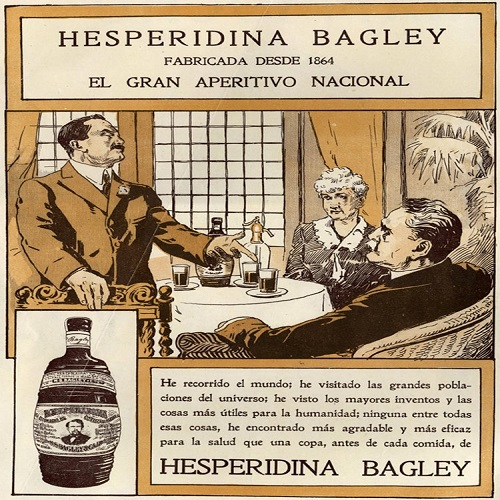
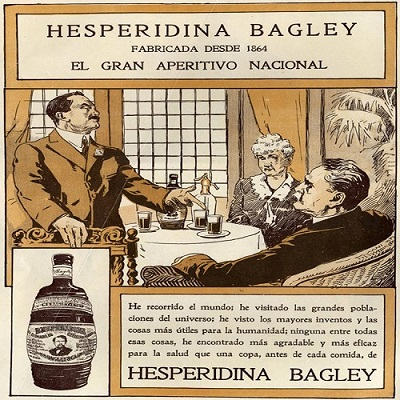
tam img widht and height

diff --git a/src/pages/Home/PaginadoHistories.tsx b/src/pages/Home/PaginadoHistories.tsx
@@ -154,30 +154,30 @@ const PaginadoHistories = () => {
             contenido3: "En las entrañas de la Compañía Ferroviaria de Pensilvania, su ascenso fue meteórico, una historia clásica del sueño americano. De muchacho pobre a hombre rico, su vida resonaba con la melodía del trabajo duro y la inteligencia incansable.",
             contenido4: "La educación y pasión de Carnegie por la lectura tomaron un giro significativo cuando el coronel James Anderson abrió las puertas de su biblioteca privada a los jóvenes trabajadores. Carnegie se alimentó de conocimiento y experiencias, cultivándose no solo en el ámbito económico, sino también en el intelectual y cultural. Pero, como en toda historia atrapante, había otro lado de la moneda.",
             titulo3: "Carrera y evolución en los negocios",
-            contenido5: "1860-1865: Guerra de Secesion. Conforme ascendía en la jerarquía empresarial, tejía una red de inversiones que le permitirían forjar su propio camino. La Guerra de Secesión fue el telón de fondo para sus primeras incursiones en el negocio, formando asociaciones y haciendo movimientos estratégicos que harían que su fortuna creciera como el fuego devora la madera seca.",
+            contenido5: "1860-1865-Guerra de Secesion: Conforme ascendía en la jerarquía empresarial, tejía una red de inversiones que le permitirían forjar su propio camino. La Guerra de Secesión fue el telón de fondo para sus primeras incursiones en el negocio, formando asociaciones y haciendo movimientos estratégicos que harían que su fortuna creciera como el fuego devora la madera seca.",
             contenido6: "Antes de que estallara la Guerra Civil Estadounidense, Carnegie había formado una sociedad con el señor Woodruff, el inventor de un coche cama para los viajes de primera clase. Los coches cama facilitaban los viajes de negocios para distancias de aproximadamente 500 millas (805 km). La inversión demostró ser un éxito y una fuente de beneficios para Woodruff y Carnegie. El joven llegó a ser el superintendente de la Pennsylvania Railroad's Western Division, e introdujo varias mejoras en el servicio.",
-            contenido7: "En 1864, Carnegie invirtió 40 000 $ en la granja Storey de Oil Creek en el Condado de Venango (Pensilvania). En un año, la granja produjo alrededor de 1 000 000 $ de dividendos en efectivo, y el petróleo de los pozos se vendió provechosamente. La demanda de productos derivados del hierro, tales como corazas para lanchas cañoneras, cañones y armazones, así como un centenar de otros productos industriales, hicieron de Pittsburgh un centro de producción durante el tiempo de la guerra.",
-            contenido8: "Carnegie trabajó con otros para montar un laminador de acero, aumentar la producción de acero y hacerse con el control de la industria, lo que supondría la fuente de su fortuna. Luego hizo varias inversiones en la industria del hierro antes de la guerra.",
-            contenido9: "Tras la guerra, abandonó los ferrocarriles para dedicar todas sus energías al comercio con las fundiciones de hierro. Trabajó para mejorar varias fundiciones, finalmente formando parte de The Keystone Bridge Works y la Union Ironworks. Siendo superintendente de la Keystone Bridge Company's, se dio cuenta de la debilidad de las estructuras de madera tradicionales. Fueron reemplazadas en gran medida por puentes de hierro hecho en sus fundiciones.",
+            contenido7: "En 1864, Carnegie invirtió $ 40.000  en la granja Storey de Oil Creek en el Condado de Venango (Pensilvania). En un año, la granja produjo alrededor de $ 1.000.000  de dividendos en efectivo, y el petróleo de los pozos se vendió provechosamente. La demanda de productos derivados del hierro, tales como corazas para lanchas cañoneras, cañones y armazones, así como un centenar de otros productos industriales, hicieron de Pittsburgh un centro de producción durante el tiempo de la guerra.",
+            contenido8: "",
+            contenido9: "Tras la guerra, abandonó los ferrocarriles para dedicar todas sus energías al comercio con las fundiciones de hierro. Trabajó para mejorar varias fundiciones, finalmente formando parte de The Keystone Bridge Works y la Union Ironworks. Siendo superintendente de la Keystone Bridge Company's, se dio cuenta de la debilidad de las estructuras de madera tradicionales. Con el tiempo fueron reemplazadas en gran medida por puentes de hierro hecho en sus fundiciones.",
             titulo6:"1875-1900: El imperio del acero",
             imagen2: carnegie2,
-            contenido10: "Carnegie logró amasar una fortuna en la industria del acero, controlando el mayor funcionamiento integrado de acero y hierro nunca antes propiedad de un particular en los Estados Unidos. Una de sus dos grandes innovaciones fue la reducción de costos gracias a la producción en masa de raíles de acero para vías férreas. El segundo fue implementar la integración vertical con todos los suministradores de materias primas. A finales de la década 1880, Carnegie Steel era la mayor fábrica de arrabio, raíles de acero y coque del mundo, con una capacidad productiva de aproximadamente 2000 toneladas de metal de arrabio al día. En 1888, compró a la empresa competidora Homestead Steel Works, que contaba con una enorme planta junto con el suministro de carbón y minas de hierro, una larga vía de ferrocarril de unos 685 km y una flota de barcos de vapor. Luego fusionó sus participaciones y las de sus asociados en 1892 al crear la empresa Carnegie Steel Company.",
+            contenido10: "Carnegie logró amasar una fortuna en la industria del acero, controlando el mayor funcionamiento integrado de acero y hierro. Una de sus dos grandes innovaciones fue la reducción de costos gracias a la producción en masa de raíles de acero para vías férreas. El segundo fue implementar la integración vertical con todos los suministradores de materias primas. A finales de la década 1880, Carnegie Steel era la mayor fábrica de arrabio, raíles de acero y coque del mundo, con una capacidad productiva de aproximadamente 2000 toneladas de metal de arrabio al día. En 1888, compró a la empresa competidora Homestead Steel Works, que contaba con una enorme planta junto con el suministro de carbón y minas de hierro, una larga vía de ferrocarril de unos 685 km y una flota de barcos de vapor. Luego fusionó sus participaciones y las de sus asociados en 1892 al crear la empresa Carnegie Steel Company.",
             contenido11: "Hacia 1889, el excedente de acero de Estados Unidos superaba al de Inglaterra y Carnegie poseía la mayor parte",
             titulo4: "1892: Huelga de Homestead",
             contenido12: "Pero en el camino hacia la grandeza, dejó un rastro de sufrimiento y crueldad. La huelga de Homestead fue un choque sangriento entre el poder y los derechos de los trabajadores. Mientras Carnegie disfrutaba de lujosos viajes a Escocia, su socio Frick llevaba a cabo una lucha sin piedad contra los sindicatos. Las vidas se perdieron, el aire se llenó de humo y el acero de Carnegie se forjó en medio del caos y el dolor",
             contenido13: "La huelga de Homestead fue una sangrienta confrontación laboral que duró 143 días en 1892, una de las más graves en la historia de Estados Unidos. El conflicto se centró en la planta principal de Carnegie Steel en Homestead, y surgió de una disputa laboral entre la Asociación Amalgamada de Trabajadores del Hierro y el Acero (AA) y Carnegie Steel Company",
-            contenido14: "Carnegie se fue de viaje a Escocia antes de que los disturbios alcanzaran su punto máximo. Al hacerlo, dejó la mediación de la disputa en manos de su socio Henry Clay Frick. Frick era bien conocido en los círculos industriales por mantener un firme sentimiento antisindical.  Con la industria del acero bien y los precios más altos, la AA pidió un aumento salarial; la AA representó a unos 800 de los 3.800 trabajadores de la planta. Frick respondió de inmediato con una disminución salarial promedio del 22 % que afectaría a casi la mitad de los miembros del sindicato y eliminaría varios puestos de la unidad de negociación. Aunque en público Carnegie condenó el uso de esquiroles y le dijo a los asociados que ninguna fábrica de acero era digna de derramar ni una sola gota de sangre,? apoyó la idea de Frick de destruir el sindicato y también se expresó a favor de reorganizar todo el asunto",
+            contenido14: "Carnegie se fue de viaje a Escocia antes de que los disturbios alcanzaran su punto máximo. Al hacerlo, dejó la mediación de la disputa en manos de su socio Henry Clay Frick. Frick era bien conocido en los círculos industriales por mantener un firme sentimiento antisindical.  Con la industria del acero en desarrollo y los precios más altos, la AA pidió un aumento salarial. Dicho sindicato  representó a unos 800 de los 3.800 trabajadores de la planta. Frick respondió de inmediato con una disminución salarial promedio del 22 % que afectaría a casi la mitad de los miembros del sindicato y eliminaría varios puestos de la unidad de negociación. Aunque en público Carnegie condenó el uso de esquiroles y le dijo a los asociados que ninguna fábrica de acero era digna de derramar ni una sola gota de sangre,  apoyó la idea de Frick de destruir el sindicato y también se expresó a favor de reorganizar todo el asunto",
             contenido15: "El sindicato y la empresa no llegaron a un acuerdo y la dirección bloqueó al sindicato. Los trabajadores consideraron el paro como un cierre patronal de la dirección y no como una huelga de los trabajadores. Como tal, los trabajadores habrían estado dentro de su derecho a protestar, y la acción gubernamental subsecuente habría sido un conjunto de procedimientos criminales diseñados para aplastar lo que fue visto como una demostración fundamental del creciente movimiento de derechos laborales, fuertemente opuesto por la dirección. Frick trajo miles de rompehuelgas para trabajar en las acerías y agentes de Pinkerton (famosos por romper huelgas) para hostigar y atacar a los huelguistas.",
             imagen6: carnegie6,
-            contenido16: "El 6 de julio, la llegada de una fuerza de 300 agentes de Pinkerton de la ciudad de Nueva York y Chicago resultó en una pelea en la que diez hombres murieron (siete huelguistas y tres matones de Pinkerton), y cientos resultaron heridos. El gobernador de Pensilvania, Robert Pattison, ordenó a dos brigadas de la milicia estatal que se dirigieran al lugar del ataque. Posteriormente, la empresa reanudó con éxito sus operaciones con empleados inmigrantes no sindicalizados en lugar de los trabajadores de la planta de Homestead, y Carnegie regresó a los Estados Unidos. Sin embargo, su reputacion fue dañada permanentemente por los eventos de Homestead.",
+            contenido16: "El 6 de julio, la llegada de una fuerza de 300 agentes de Pinkerton de la ciudad de Nueva York y Chicago resultó en una pelea en la que diez hombres murieron (siete huelguistas y tres matones de Pinkerton), y cientos resultaron heridos. El gobernador de Pensilvania, Robert Pattison, ordenó a dos brigadas de la milicia estatal que se dirigieran al lugar del ataque. Posteriormente, la empresa reanudó con éxito sus operaciones con empleados inmigrantes no sindicalizados en lugar de los trabajadores de la planta de Homestead, y Carnegie regresó a los Estados Unidos. Sin embargo, su reputacion fue dañada permanentemente por los eventos sucedidos.",
             contenido17: "Sin embargo, ¿qué hizo Carnegie con el dinero que ganó gracias a semejante derramamiento de sangre?",
-            contenido18: "Gastó mucho en la construcción de 2.509 bibliotecas públicas gratuitas, con la intención de ayudar a trabajadores comunes a avanzar en la vida, como había hecho él",
+            contenido18: "Gastó mucho en la construcción de 2.509 bibliotecas públicas gratuitas, con la intención de ayudar a trabajadores comunes a avanzar en la vida, como había hecho él.",
             contenido19: "Es un proyecto que aún continúa a través de instituciones como la Biblioteca Pública de Nueva York, en el corazón de Manhattan, con su red de 62 sucursales, que se construyeron con el dinero de Carnegie.",
             contenido20: "Para sus críticos, era simplemente una hipocresía que alguien como Carnegie se hiciera pasar por un amigo de los trabajadores.",
-            contenido21: "En 1889 escribió su famoso ensayo El evangelio de la riqueza, donde propuso que los ricos deben ser administradores de la riqueza para beneficio de toda la sociedad, mediante las donaciones.",
+            contenido21: "En 1889 escribió su famoso ensayo 'El evangelio de la riqueza', donde propuso que los ricos deben ser administradores de la riqueza para beneficio de toda la sociedad, mediante las donaciones.",
             imagen5:carnegie5,
             contenido22:"Allí defiende el capitalismo, afirmando que tanto el empleador como el empleado hoy viven mejor que en el pasado gracias a todas las facilidades que trajo el nuevo sistema económico. Y señala que la riqueza de algunos trae beneficios para todos.",
-            contenido23:"Aunque pagaba a sus empleados los bajos salarios típicos de esa época,luego donó la mayor parte de su dinero para financiar diversas bibliotecas, escuelas y universidades en Estados Unidos, el Reino Unido y otros países, así como para crear fondos de pensiones para los empleados de más antigüedad.",
+            contenido23:"Aunque pagaba a sus empleados los bajos salarios típicos de esa época, luego donó la mayor parte de su dinero para financiar diversas bibliotecas, escuelas y universidades en Estados Unidos, el Reino Unido y otros países, así como para crear fondos de pensiones para los empleados de más antigüedad.",
             contenido24:"En un giro irónico, el hombre que abogaba por el evangelio de la riqueza gastó enormes sumas en bibliotecas públicas y obras filantrópicas. Las mismas manos que habían presidido conflictos brutales ahora extendían un manto de educación y apoyo. Sin embargo, su intento de lavar su conciencia dejaba un sabor amargo en los labios de aquellos que veían su caridad como una cortina que ocultaba la verdadera naturaleza de sus acciones.",
             contenido25:"La historia de Andrew Carnegie es un recordatorio crudo de los extremos de la ambición humana. Su ascenso es inspirador, su generosidad es admirable, pero no podemos olvidar las lágrimas y el sufrimiento que también marcaron su camino. En su legado, encontramos un espejo que refleja tanto el poder del éxito como la oscuridad que puede acechar detrás de él.",
         }

diff --git a/src/pages/Home/History.css b/src/pages/Home/History.css
@@ -3,16 +3,17 @@
 .classHistory img {
   display: block;
   margin: auto;
-  padding: 1rem;
-  width: 98%;
+  padding: 0.7rem;
+  width: 99%;
 }
-
+/* PANTALLA GRANDE */
 @media (min-width: 768px) {
   .classHistory img{
     display: block;
     margin: auto;
     padding: 1rem;
-    width: 80%;
+    width: 75%;
+    height: 45rem;
   }
 }
 
